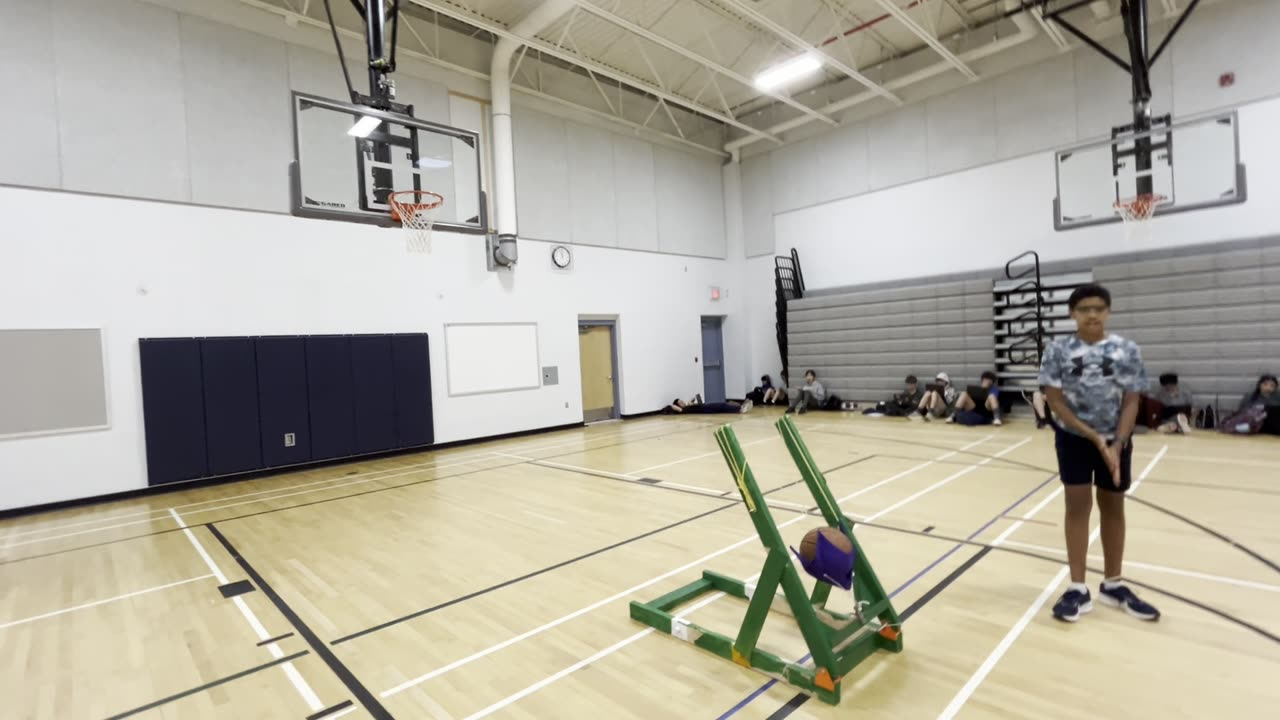
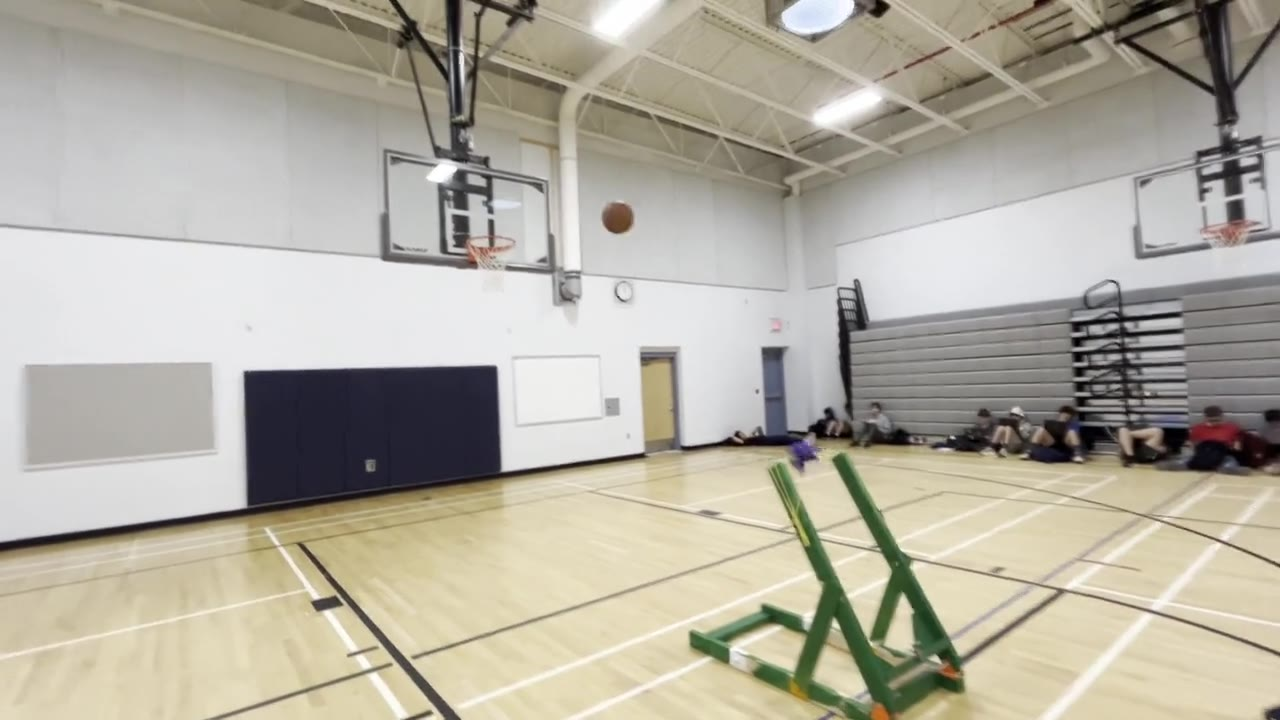
Catapult: mid-air still frame, play on hover
Claude-Session: https://claude.ai/code/session_01T5SZQdU7R4h5WrXwUpKf8b

diff --git a/script.js b/script.js
@@ -38,7 +38,7 @@ const io = new IntersectionObserver(es=>es.forEach(e=>{if(e.isIntersecting){e.ta
 function render(f){
   grid.innerHTML = P.filter(p=>f==="all"||p.tags.includes(f)).sort((a,b)=>b.year-a.year).map(p=>`
     <article class="card" data-i="${P.indexOf(p)}">
-      <div class="${imgClass(p)}" ${imgStyle(p)}>${phText(p)}</div>
+      ${p.video ? `<div class="img"><video class="hover-play" src="${p.video}" poster="${p.image}" muted loop playsinline preload="none"></video></div>` : `<div class="${imgClass(p)}" ${imgStyle(p)}>${phText(p)}</div>`}
       <div class="body"><span class="tag-line">${p.year} · ${p.tags.join(", ")}</span>
       <h3>${p.title}</h3><p>${p.blurb}</p></div>
     </article>`).join("");
@@ -58,7 +58,7 @@ document.addEventListener("click", e=>{
   const p = P[el.dataset.i], m = document.getElementById("m-img");
   m.className = p.image ? "modal-img" : "modal-img ph"; m.style.backgroundImage = p.image?`url('${p.image}')`:""; m.textContent = phText(p);
   m.querySelector("video")?.remove();
-  if (p.video) { const v = document.createElement("video"); Object.assign(v, { src: p.video, poster: p.image, muted: true, autoplay: true, loop: true, playsInline: true, controls: true }); v.className = "m-video"; m.style.backgroundImage = ""; m.textContent = ""; m.append(v); }
+  if (p.video) { const v = document.createElement("video"); Object.assign(v, { src: p.video, poster: p.image, muted: true, loop: true, playsInline: true, controls: true }); v.className = "m-video hover-play"; m.style.backgroundImage = ""; m.textContent = ""; m.append(v); }
   const g = p.gallery || [], nav = document.getElementById("m-gal");
   nav.hidden = g.length < 2; let gi = 0;
   const showG = () => { m.style.backgroundImage = `url('${g[gi]}')`; nav.querySelector("span").textContent = `${gi + 1} / ${g.length}`; };
@@ -106,3 +106,7 @@ document.addEventListener("click", (e) => {
   e.stopPropagation();
   const n = b.nextElementSibling; if (n) n.hidden = !n.hidden;
 });
+
+// Videos show a still frame and play (muted) only while hovered or tapped.
+document.addEventListener("mouseover", (e) => { const v = e.target.closest?.("video.hover-play"); if (v) { v.muted = true; v.play().catch(() => {}); } });
+document.addEventListener("mouseout", (e) => { const v = e.target.closest?.("video.hover-play"); if (v && !v.contains(e.relatedTarget)) v.pause(); });

diff --git a/index.html b/index.html
@@ -183,7 +183,7 @@
         <li><span class="date">2025</span><h3>Gracious Professionalism Award (2×) · FIRST Robotics</h3><p>Helped opposing teams repair and tune their robots at competitions, earning the Gracious Professionalism award at both Regional and District events. That effort directly provided the base for Langley Robotics to start its B team, Saxon Sparks (526).</p></li>
         <li><span class="date">2025</span><h3>Mentor · FIRST LEGO League</h3><p>Coached 4th and 5th graders to a Core Values award. About 50 volunteer hours.</p></li>
         <li><span class="date">Summer 2025</span><h3>Student · NYU Automation, Robotics & Coding Program</h3><p>Mechatronics course. Built an autonomous path-following, obstacle-avoiding vehicle.</p></li>
-        <li><span class="date">2024</span><h3>Adaptive Basketball Catapult · Middle School (8th grade)</h3><p>Designed and built a catapult so a student with a disability could take part in basketball at school.</p><video class="story-img" src="assets/video/catapult.mp4" poster="assets/photos/catapult.jpg" muted autoplay loop playsinline controls preload="metadata"></video></li>
+        <li><span class="date">2024</span><h3>Adaptive Basketball Catapult · Middle School (8th grade)</h3><p>Designed and built a catapult so a student with a disability could take part in basketball at school.</p><video class="story-img hover-play" src="assets/video/catapult.mp4" poster="assets/photos/catapult.jpg" muted loop playsinline controls preload="none"></video></li>
         <li><span class="date">2023</span><h3>Competitor · VEX Robotics</h3><p>One season designing, building and driving a VEX competition robot.</p></li>
         <li><span class="date">2022 – 2023</span><h3>Competitor · LEGO Battlebots</h3><p>Designed and built combat robots from LEGO Technic for head-to-head matches.</p></li>
       </ol>

diff --git a/style.css b/style.css
@@ -156,3 +156,4 @@ footer{display:flex;justify-content:space-between;align-items:center;gap:16px;fl
 .modal-img{position:relative}
 .m-video{position:absolute;inset:0;width:100%;height:100%;object-fit:contain;background:#000}
 video.story-img{background:#000}
+.card video.hover-play{width:100%;height:100%;object-fit:cover;display:block}
